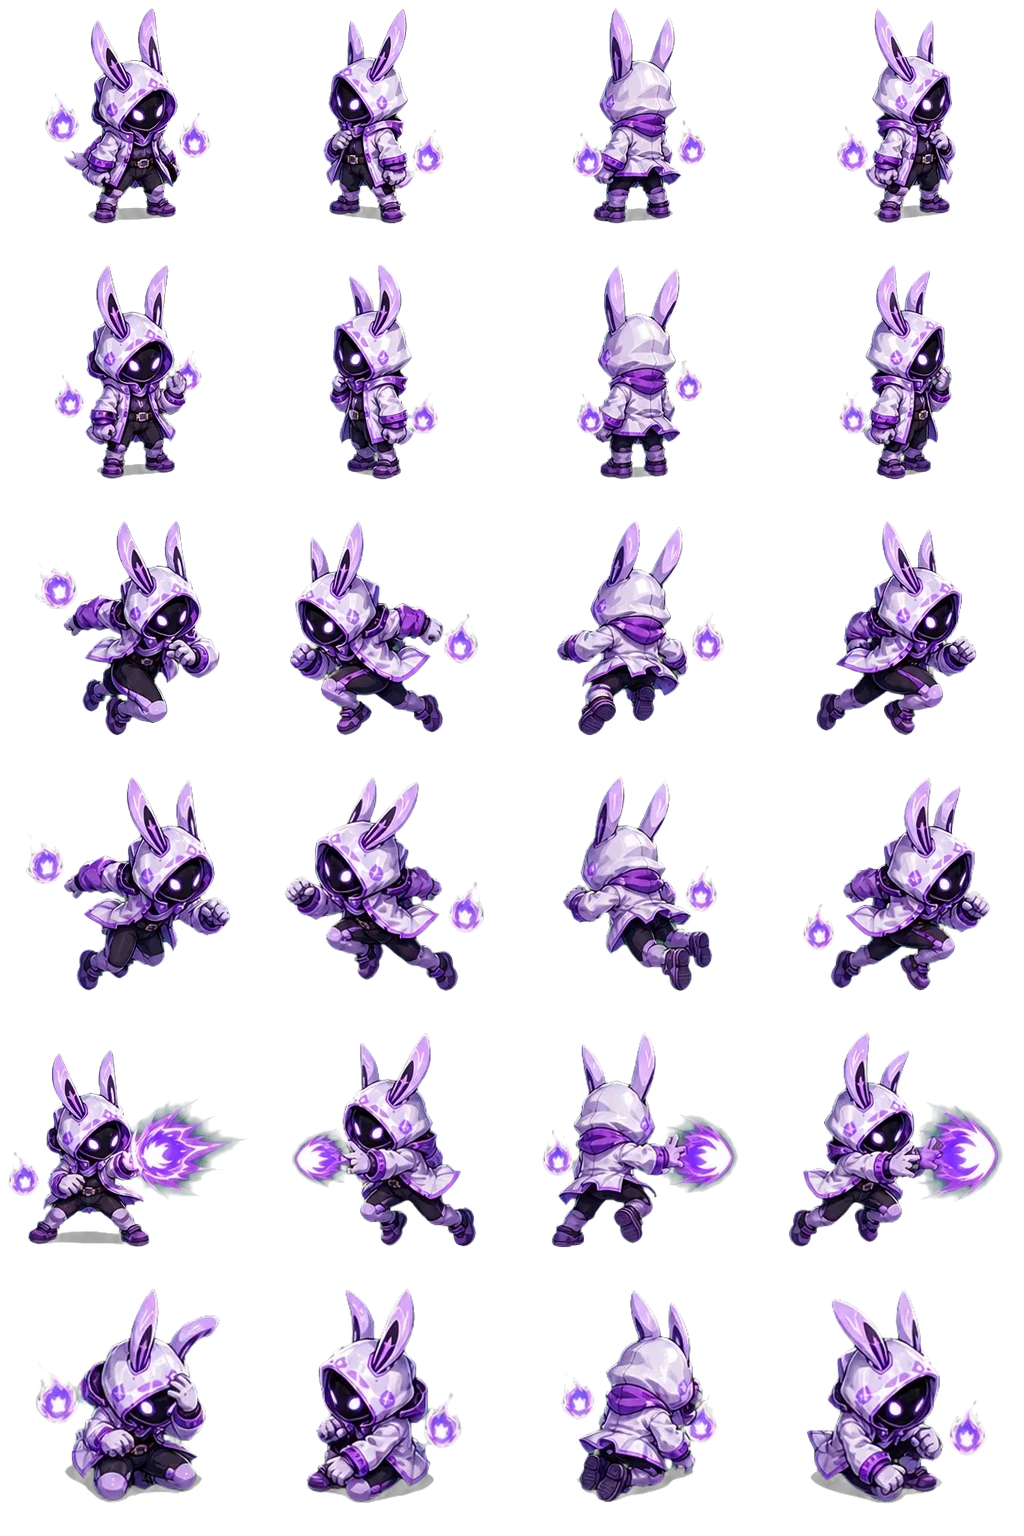
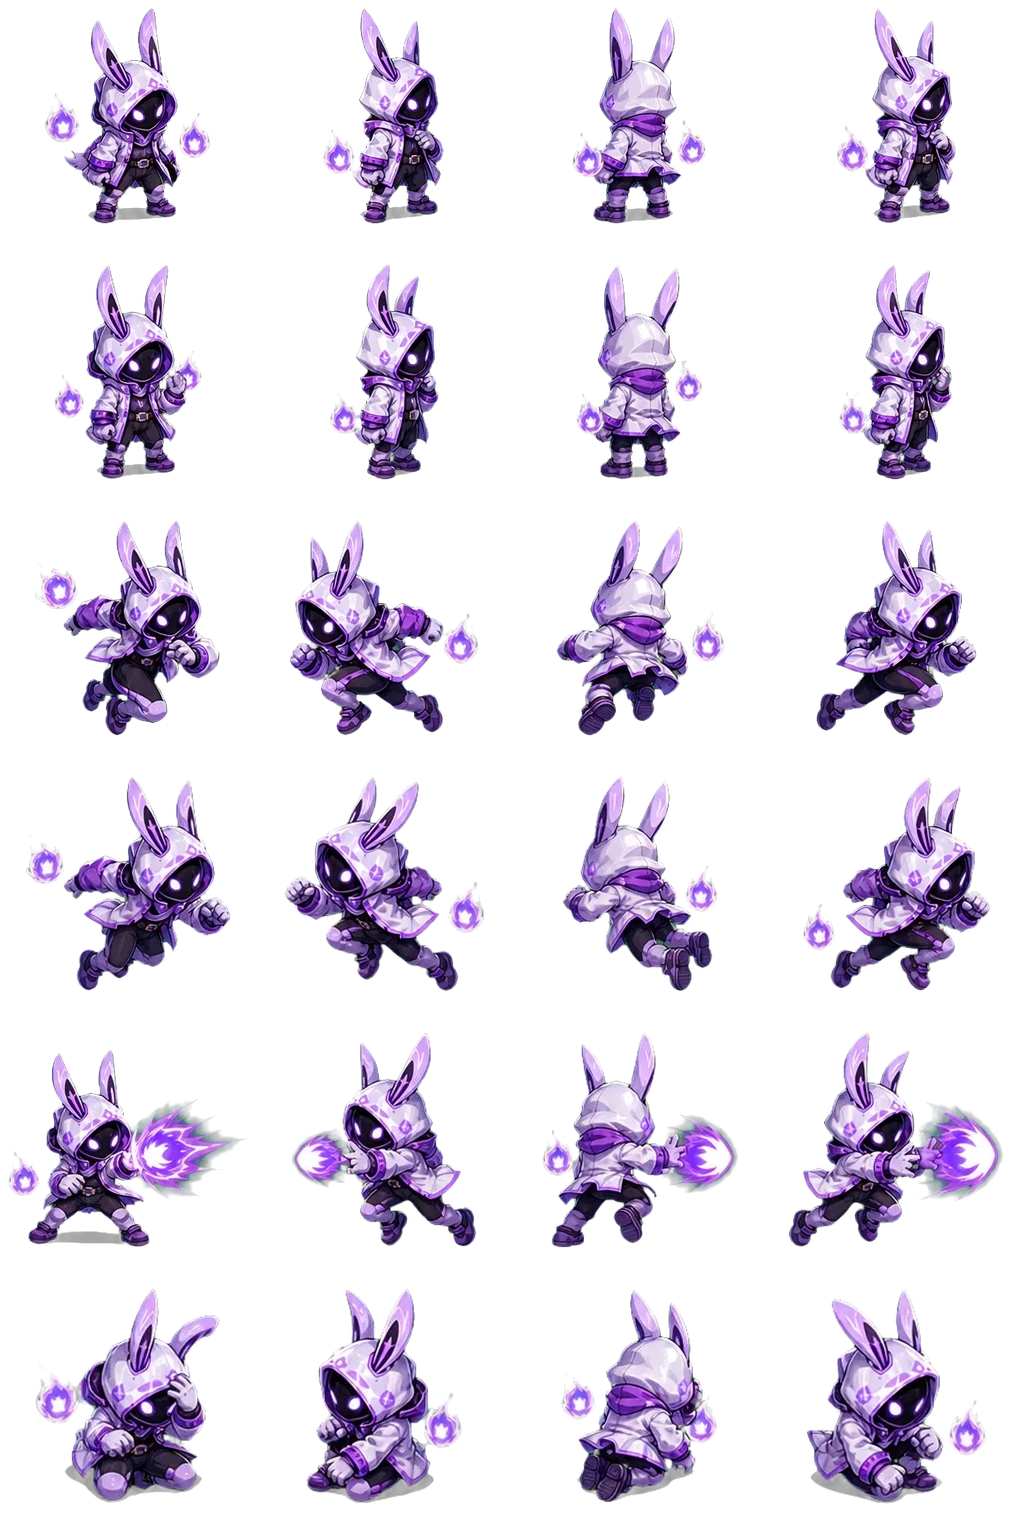
fix(nova): flip the missing idle west rows (BEN-899)
Nova faced the wrong way moving west during idle, cast, revive and victory,
while run, dash, hurt and down were already correct -- which is exactly the
shape of the production report.

Not a runtime bug. directionColumn() and the render-plan resolution pick column
1 for west and 3 for east correctly for every specialist; south, north and east
pixels are byte-identical before and after this change. The defect was in the
normalization manifest: be5cfc7 ("Fix specialist left-facing atlases") corrected
Nova's rows 2-5 but silently missed idle rows 0-1, and idle/cast/revive/victory
are precisely the clips that draw from those rows.

Adds idle-a.west and idle-b.west to Nova's flipX and rebuilds the normalized
atlas with the repo's own deterministic tool. Of Nova's 24 frame IDs only those
two differ pre-compression; nothing is double-mirrored.

Presentation only -- no simulation file touched. combat-orientation.js drives
projectile spawn and gameplay facing from continuous angles and is untouched,
so deterministic hashes, replay and multiplayer authority are unaffected. Full
suite 833/833, including replay, host-migration, reconnect and protocol.

Changed region(s): [[0.3125, 0.0, 0.4375, 0.3125]]

diff --git a/tests/nova-direction-regression.test.js b/tests/nova-direction-regression.test.js
@@ -1,0 +1,63 @@
+import test from "node:test";
+import assert from "node:assert/strict";
+import { readFileSync } from "node:fs";
+import { LASTLIGHT_THEME } from "../themes/lastlight.js";
+import { resolveMotionAuditFrame } from "../motion-audit.js";
+
+// BEN-899: Nova's runtime-selected west/east frames did not face the
+// requested direction. The normalized atlas builder (tooling/motion_atlas_tool.py)
+// bakes a corrected, west-facing pose into the runtime WebP only for physical
+// rows listed in an atlas's manifest `flipX` array; every other roster
+// specialist that needed a correction listed every physical row its clips
+// actually draw from. Nova's manifest entry corrected locomotion, mobility,
+// and hurt/down (rows 2-5) but silently omitted the two idle rows (0-1), so
+// idle, cast, revive, and victory - which all reuse those idle rows - kept
+// baking in the unflipped, wrong-facing source pose for "west" while "east"
+// (and south/north) were unaffected. This is a presentation/asset-only
+// defect: it never reached combat-orientation.js's angle-based aim/muzzle
+// logic or any authoritative simulation state.
+const manifestPath = new URL("../tooling/motion-atlas-manifest.json", import.meta.url);
+
+function novaAtlasEntry() {
+  const manifest = JSON.parse(readFileSync(manifestPath, "utf8"));
+  const nova = manifest.atlases.find((atlas) => atlas.id === "nova");
+  assert.ok(nova, "nova must have a motion atlas manifest entry");
+  return nova;
+}
+
+test("every physical row Nova's specialist clips draw from carries a west-direction flip correction", () => {
+  const nova = novaAtlasEntry();
+  const rig = LASTLIGHT_THEME.animations.specialists.nova;
+  const rowsInUse = new Set();
+  for (const clip of Object.values(rig.states)) for (const frame of clip.frames) rowsInUse.add(frame.row);
+  assert.ok(rowsInUse.size > 0, "nova rig must declare at least one clip frame");
+  const missingWestFlips = [...rowsInUse].sort((a, b) => a - b).filter((row) => {
+    const stateName = nova.states[row];
+    return !nova.flipX.includes(`${stateName}.west`);
+  });
+  assert.deepEqual(missingWestFlips, [], `nova.flipX in tooling/motion-atlas-manifest.json is missing west corrections for physical row(s): ${missingWestFlips.join(", ")}`);
+});
+
+test("Nova's idle, cast, revive, and victory clips resolve a dedicated west source column consistent with east, south, and north", () => {
+  const rig = LASTLIGHT_THEME.animations.specialists.nova;
+  for (const requestId of ["idle", "cast-e", "cast-r", "revive", "victory"]) {
+    const byDirection = Object.fromEntries(
+      ["south", "west", "north", "east"].map((direction) => [direction, resolveMotionAuditFrame({ specialist: "nova", requestId, direction, mode: "normal" })]),
+    );
+    for (const [direction, frame] of Object.entries(byDirection)) {
+      assert.equal(frame.resolvedDirection, direction, `${requestId}/${direction} must resolve the requested atlas column`);
+    }
+    assert.equal(byDirection.west.resolvedColumn, 1, `${requestId}/west must sample atlas column 1`);
+    assert.equal(byDirection.east.resolvedColumn, 3, `${requestId}/east must sample atlas column 3`);
+  }
+  void rig;
+});
+
+test("reverting Nova's idle west/east flip correction is caught by the pinned roster semantics", () => {
+  const nova = novaAtlasEntry();
+  // The exact defect reported in BEN-899: idle-a/idle-b west flips dropped
+  // from the manifest while every other corrected row keeps its flip.
+  const regressed = nova.flipX.filter((id) => id !== "idle-a.west" && id !== "idle-b.west");
+  assert.notDeepEqual(regressed, nova.flipX, "the fix must add flip entries beyond the pre-existing run/action/hurt-down corrections");
+  assert.deepEqual(regressed, ["run-a.west", "run-b.west", "action.west", "hurt-down.west"], "regressing the fix must reproduce the exact pre-BEN-899 flipX list");
+});

diff --git a/tooling/tests/test_motion_atlas_tool.py b/tooling/tests/test_motion_atlas_tool.py
@@ -187,7 +187,7 @@ class MotionAtlasNormalizationTests(unittest.TestCase):
         nova = atlases["nova"]
         self.assertEqual(nova["output"]["path"], "assets/motion-normalized/specialists/nova-v2.webp")
         self.assertEqual(nova["flipX"], [
-            "run-a.west", "run-b.west", "action.west", "hurt-down.west",
+            "idle-a.west", "idle-b.west", "run-a.west", "run-b.west", "action.west", "hurt-down.west",
         ])
         rift = atlases["rift"]
         self.assertEqual(rift["output"]["path"], "assets/motion-normalized/specialists/rift-v2.webp")
